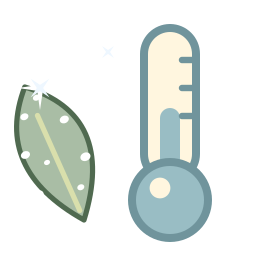
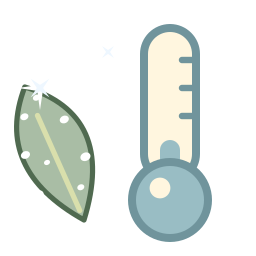
Make the frosty morning sparkle at full speed and load instantly
Checks of the frost found:

- The ice glints never appeared at 30-60 fps: setFrequency() every
  frame restarted the emitter's countdown. The frequency is now
  assigned, and the seasons smoke test counts glints at a fixed 60 fps
  (0 before, 22 a second now) instead of trusting slow headless frames.
- Painting the frost sheet blurred the canvas once per tile: World took
  2.3 s to start on a frosty day (10.5 s at 4x CPU). The tiles are now
  blurred once: 67 ms (0.27 s at 4x).
- After the frost melts, World no longer builds and paints it again on
  each return; the sheet's texture is freed as soon as the sun melts it,
  and its context-restore listener no longer keeps old effects alive.
- Thickets and old fences frost too; tree crowns and the vines on them
  lightly; the pod lightly so its lit doorway still glows.
- Glints sit on the ground, so the robot and animals hide them.
- Frost shadows only stand out once the frost around them melts, never
  fall where frost didn't form, appear for new plantings, and leave
  with a plant that is pulled. Off-screen frost isn't updated.
- The pictogram's thermometer now reads low, with a bolder frost rim.

Claude-Session: https://claude.ai/code/session_01PQ5V47biDoVLfsetz1Fi7u

Changed region(s): [[0.625, 0.4062, 0.7188, 0.5625]]

diff --git a/src/scenes/world/frostFx.ts b/src/scenes/world/frostFx.ts
@@ -24,6 +24,17 @@ const SHADE_ANGLE = 10;
 export function frostLeft(dayLeft: number): number {
   return Phaser.Math.Clamp((dayLeft - 0.7) / 0.25, 0, 1);
 }
+/**
+ * Frost left today, 1 at dawn to 0 once melted. Melted frost stays melted for the rest of the day, even
+ * if a battery upgrade adds energy or the robot pops home and back.
+ */
+export function frostToday(scene: Phaser.Scene, state: GameState, dayLeft: number): number {
+  if (state.weather.kind !== 'cold') return 0;
+  const melt = scene.registry.get('frostMelt') as { day: number; f: number } | undefined;
+  const f = Math.min(frostLeft(dayLeft), melt?.day === state.day ? melt.f : 1);
+  scene.registry.set('frostMelt', { day: state.day, f });
+  return f;
+}
 /** Frost in the sun goes first... */
 const sunFrost = (f: number) => Phaser.Math.Clamp((f - 0.35) / 0.65, 0, 1);
 /** ...and frost in the shade lasts to the end. */
@@ -49,8 +60,11 @@ export class FrostFx {
   private sun = 1;
   private shade = 1;
   private gone = false;
+  private sheetCanvas: HTMLCanvasElement | null = null;
+  private repaintSheet: (() => void) | null = null;
 
-  constructor(private scene: Phaser.Scene, private state: GameState) {
+  /** `frost` is frostToday(): only build one while some frost is left. */
+  constructor(private scene: Phaser.Scene, private state: GameState, frost: number) {
     for (let ty = 0; ty < MAP_H; ty++) for (let tx = 0; tx < MAP_W; tx++) this.cover[ty * MAP_W + tx] = ZONE_FROST[zoneAt(tx, ty)];
     // Under a crown the ground stays clear, with a fairly crisp edge.
     for (const e of state.entities) {
@@ -61,7 +75,8 @@ export class FrostFx {
         this.cover[ty * MAP_W + tx] *= Phaser.Math.Clamp((Math.hypot(dx, dy) - 1.1) / 0.8, 0.04, 1);
       }
     }
-    this.sheet = this.makeSheet(state.seed ^ Math.imul(state.day, 0x9e3779b1));
+    // The open-ground frost is only painted while the sun hasn't melted it yet.
+    if (sunFrost(frost) > 0) this.sheet = this.makeSheet(state.seed ^ Math.imul(state.day, 0x9e3779b1));
     makePatchTexture(scene);
 
     const zone = (pick: (p: Phaser.Types.Math.Vector2Like) => void) => ({
@@ -69,7 +84,8 @@ export class FrostFx {
       source: { getRandomPoint: (p: Phaser.Types.Math.Vector2Like) => (pick(p), p) },
     }) as unknown as Phaser.Types.GameObjects.Particles.EmitZoneData;
     const k = texScale(scene, 'frost');
-    // Ice crystals catching the low sun: they twinkle in place, they don't fall.
+    // Ice crystals catching the low sun: they twinkle in place on the ground, they don't fall. Ground
+    // depth lets plants, the robot and animals hide them.
     this.glints = scene.add.particles(0, 0, tex(scene, 'frost'), {
       emitZone: zone((p) => this.glintPoint(p)),
       lifespan: { min: 500, max: 1000 },
@@ -78,7 +94,7 @@ export class FrostFx {
       rotate: { min: -12, max: 12 },
       blendMode: Phaser.BlendModes.ADD,
       frequency: 45,
-    }).setDepth(150002);
+    }).setDepth(-3);
     // Thin wisps of steam lift off frosted plants and the pod roof as the sun reaches them.
     const ks = texScale(scene, 'smoke');
     this.steam = scene.add.particles(0, 0, tex(scene, 'smoke'), {
@@ -97,27 +113,32 @@ export class FrostFx {
   /** `dayLeft` is the battery fraction, the game's clock. `things` are the plants and stations in view. */
   update(dayLeft: number, things: Iterable<Frosted>): void {
     if (this.gone) return;
-    // Melted frost stays melted for the rest of the day, even if a battery upgrade adds energy or
-    // the robot pops home and back.
-    const melt = this.scene.registry.get('frostMelt') as { day: number; f: number } | undefined;
-    const f = Math.min(frostLeft(dayLeft), melt?.day === this.state.day ? melt.f : 1);
-    this.scene.registry.set('frostMelt', { day: this.state.day, f });
+    const f = frostToday(this.scene, this.state, dayLeft);
     this.sun = sunFrost(f);
     this.shade = shadeFrost(f);
-    this.sheet?.setAlpha(this.sun).setVisible(this.sun > 0);
     if (f <= 0) {
       this.melted();
       return;
     }
-    for (const thing of things) this.coat(thing);
+    this.sheet?.setAlpha(this.sun);
+    if (this.sun <= 0) this.dropSheet();
+    const v = this.scene.cameras.main.worldView;
+    const seen = new Set<Phaser.GameObjects.Image>();
+    for (const thing of things) {
+      seen.add(thing.sprite);
+      this.coat(thing, v);
+    }
+    // Plants pulled, cut or burned take their frost with them.
     for (const [sprite, coat] of this.coats) {
-      if (sprite.active) continue;
+      if (seen.has(sprite) && sprite.active) continue;
       coat.rime.destroy();
       coat.shade?.destroy();
       this.coats.delete(sprite);
     }
-    // Fewer crystals glint as the frost thins, and the last ones are warm dew drops.
-    this.glints.setFrequency(45 + (1 - f) * 260);
+    // Fewer crystals glint as the frost thins, and the last ones are warm dew drops. (Assigning the
+    // frequency keeps the emitter's countdown; setFrequency() would restart it every frame.)
+    const every = 45 + (1 - f) * 260;
+    if (Math.abs(this.glints.frequency - every) > 1) this.glints.frequency = every;
     this.glints.particleTint = f > 0.45 ? 0xffffff : 0xfff0cc;
     const steaming = this.sun > 0.1 && this.sun < 0.9;
     if (steaming !== this.steam.emitting) steaming ? this.steam.start() : this.steam.stop();
@@ -130,29 +151,49 @@ export class FrostFx {
   }
 
   /** Frost on a plant or the pod: a pale silvering, brightest along its top edge, plus its frost shadow. */
-  private coat({ sprite, weight }: Frosted): void {
+  private coat({ sprite, weight }: Frosted, view: Phaser.Geom.Rectangle): void {
     let coat = this.coats.get(sprite);
     if (!coat) {
-      const rime = this.scene.add.image(0, 0, sprite.texture.key, sprite.frame.name).setTintFill(0xeef5fb);
-      const w = sprite.displayWidth;
-      // Shade lies beside anything bigger than a seedling, on its west side (the sprite itself covers
-      // the ground behind it). Anchored at the plant, it shrinks back toward it.
-      const shade = w < 14 ? null : this.scene.add.image(0, 0, PATCH).setOrigin(1, 0.5).setAngle(SHADE_ANGLE).setDepth(-4.5);
-      shade?.setData('size', [w * 0.95, w * 0.4]);
-      coat = { rime, shade };
+      coat = { rime: this.scene.add.image(0, 0, sprite.texture.key, sprite.frame.name).setTintFill(0xeef5fb), shade: null };
       this.coats.set(sprite, coat);
     }
-    const { rime, shade } = coat;
+    const { rime } = coat;
+    // Only what's on screen (with room for its frost shadow) needs following.
+    const w = sprite.displayWidth, h = sprite.displayHeight;
+    const left = sprite.x - sprite.originX * w, top = sprite.y - sprite.originY * h;
+    const onScreen = left + w + 32 > view.x && left - w - 32 < view.right && top + h + 32 > view.y && top - 32 < view.bottom;
+    if (!onScreen) {
+      rime.setVisible(false);
+      coat.shade?.setVisible(false);
+      return;
+    }
     if (rime.texture.key !== sprite.texture.key || rime.frame.name !== sprite.frame.name) rime.setTexture(sprite.texture.key, sprite.frame.name);
     rime.setPosition(sprite.x, sprite.y - 1.2).setOrigin(sprite.originX, sprite.originY).setScale(sprite.scaleX, sprite.scaleY)
       .setAngle(sprite.angle).setFlip(sprite.flipX, sprite.flipY).setDepth(sprite.depth + 0.01)
       .setVisible(sprite.visible).setAlpha(0.42 * weight * sprite.alpha * Math.max(this.sun, this.shade * 0.35));
-    if (shade) {
-      // The shadow, and the frost in it, shrinks back toward the plant as the sun climbs.
-      const [w, h] = shade.getData('size') as number[];
-      shade.setPosition(sprite.x - w * 0.12, sprite.y - w * 0.12).setDisplaySize(w * (0.25 + 0.75 * this.shade), h * (0.5 + 0.5 * this.shade))
-        .setAlpha(0.8 * weight * this.shade).setVisible(this.shade > 0);
+    // Shade lies beside anything bigger than a seedling, on its west side (the sprite itself covers the
+    // ground behind it). It is measured once the plant has finished growing in.
+    if (!coat.shade && w >= 14 && !this.scene.tweens.isTweening(sprite)) {
+      coat.shade = this.scene.add.image(0, 0, PATCH).setOrigin(1, 0.5).setAngle(SHADE_ANGLE).setDepth(-4.5).setData('size', [w * 0.95, w * 0.4]);
     }
+    const shade = coat.shade;
+    if (!shade) return;
+    // The shadow, and the frost in it, shrinks back toward the plant as the sun climbs. It only stands out
+    // once the frost around it has melted, and never where frost didn't form (under a tree crown).
+    const [sw, sh] = shade.getData('size') as number[];
+    const dw = sw * (0.25 + 0.75 * this.shade), x = sprite.x - sw * 0.12, y = sprite.y - sw * 0.12;
+    const ground = Math.min(1, this.coverAt(x - dw / 2, y) / 0.2);
+    shade.setPosition(x, y).setDisplaySize(dw, sh * (0.5 + 0.5 * this.shade))
+      .setAlpha(0.8 * weight * this.shade * (1 - 0.75 * this.sun) * ground).setVisible(this.shade > 0 && sprite.visible);
+  }
+
+  /** The open-ground frost has melted: free its world-sized texture. */
+  private dropSheet(): void {
+    this.sheet?.destroy();
+    this.sheet = null;
+    this.sheetCanvas?.removeEventListener('contextrestored', this.repaintSheet!);
+    this.sheetCanvas = this.repaintSheet = null;
+    if (this.scene.textures.exists(SHEET)) this.scene.textures.remove(SHEET);
   }
 
   private melted(): void {
@@ -161,11 +202,9 @@ export class FrostFx {
       coat.shade?.destroy();
     }
     this.coats.clear();
-    this.sheet?.destroy();
-    this.sheet = null;
+    this.dropSheet();
     this.glints.stop();
     this.steam.stop();
-    if (this.scene.textures.exists(SHEET)) this.scene.textures.remove(SHEET);
     this.gone = true;
   }
 
@@ -191,7 +230,7 @@ export class FrostFx {
   /** A random point on a frosted thing in view, or in its frost shadow. */
   private nearThing(p: Phaser.Types.Math.Vector2Like, inShade: boolean): void {
     const v = this.scene.cameras.main.worldView;
-    const coats = [...this.coats].filter(([s]) => s.visible && v.contains(s.x, s.y));
+    const coats = [...this.coats].filter(([s, c]) => c.rime.visible && v.contains(s.x, s.y));
     const pick = coats[Math.floor(Math.random() * coats.length)];
     if (!pick) {
       p.x = v.x - 100;
@@ -227,25 +266,34 @@ export class FrostFx {
       texture.refresh();
     };
     paint();
-    // A GPU reset can blank the canvas (see make() in placeholders.ts).
-    texture.canvas.addEventListener('contextrestored', () => this.scene.textures.get(SHEET) === texture && paint());
-    return this.scene.add.image(0, 0, SHEET).setOrigin(0).setDepth(-5);
+    // A GPU reset can blank the canvas (see make() in placeholders.ts). Phaser reuses pooled canvases,
+    // so dropSheet() removes this listener again.
+    this.sheetCanvas = texture.canvas;
+    this.repaintSheet = () => this.scene.textures.get(SHEET) === texture && paint();
+    this.sheetCanvas.addEventListener('contextrestored', this.repaintSheet);
+    // Over the ground litter (-5), under the frost shadows.
+    return this.scene.add.image(0, 0, SHEET).setOrigin(0).setDepth(-4.9);
   }
 
   private paintSheet(c: CanvasRenderingContext2D, seed: number): void {
     const rng = mulberry32(seed);
     c.clearRect(0, 0, WORLD_W, WORLD_H);
-    // A thin, patchy ice-blue sheen: where frost settles, blurred at a quarter size and enlarged.
-    const small = document.createElement('canvas');
-    small.width = MAP_W * 8; small.height = MAP_H * 8;
+    // A thin, patchy ice-blue sheen: where frost settles, blurred at a quarter size and enlarged. The
+    // tiles are drawn first and blurred once; a filter on each fill would blur the canvas every time.
+    const tiles = document.createElement('canvas'), small = document.createElement('canvas');
+    tiles.width = small.width = MAP_W * 8;
+    tiles.height = small.height = MAP_H * 8;
+    const t = tiles.getContext('2d')!;
+    t.fillStyle = '#dde9f6';
+    for (let ty = 0; ty < MAP_H; ty++) for (let tx = 0; tx < MAP_W; tx++) {
+      t.globalAlpha = this.cover[ty * MAP_W + tx];
+      t.fillRect(tx * 8 - 2, ty * 8 - 2, 12, 12);
+    }
     const s = small.getContext('2d')!;
     s.filter = 'blur(5px)';
-    s.fillStyle = '#dde9f6';
-    for (let ty = 0; ty < MAP_H; ty++) for (let tx = 0; tx < MAP_W; tx++) {
-      s.globalAlpha = this.cover[ty * MAP_W + tx];
-      s.fillRect(tx * 8 - 2, ty * 8 - 2, 12, 12);
-    }
+    s.drawImage(tiles, 0, 0);
     s.filter = 'none';
+    tiles.width = tiles.height = 0;
     // It lies in lacy patches, between sand ripples and around grass clumps.
     s.globalCompositeOperation = 'destination-out';
     for (let i = 0; i < 2200; i++) {

diff --git a/src/scenes/WorldScene.ts b/src/scenes/WorldScene.ts
@@ -24,7 +24,7 @@ import { hasPerk } from '../systems/progress';
 import { mulberry32 } from '../systems/rng';
 import { FireFx } from './world/fireFx';
 import { WeatherFx } from './world/weatherFx';
-import { FrostFx, Frosted } from './world/frostFx';
+import { FrostFx, Frosted, frostToday } from './world/frostFx';
 import { frostThisWinter } from '../systems/weather';
 
 const S = 1 / ART_SCALE;
@@ -101,7 +101,8 @@ export class WorldScene extends PlayScene {
     this.fireFx = new FireFx(this, this.state);
     this.syncEntities(true);
     this.weatherFx = new WeatherFx(this, this.state.weather, seasonOf(this.state.day));
-    this.frostFx = this.state.weather.kind === 'cold' ? new FrostFx(this, this.state) : null;
+    const frost = frostToday(this, this.state, batteryFraction(this.state));
+    this.frostFx = frost > 0 ? new FrostFx(this, this.state, frost) : null;
     this.fireArrow = this.add.image(0, 0, tex(this, 'ui_fire')).setDisplaySize(16, 16).setDepth(250001).setVisible(false);
     // Storm days bring a few lightning strikes, spread through the time spent outdoors.
     if (this.state.weather.strikes > 0) this.nextStrike = this.time.now + 9000 + Math.random() * 12000;
@@ -545,14 +546,22 @@ export class WorldScene extends PlayScene {
     audio.fire(Phaser.Math.Clamp(1 - near.d / 700, 0, 0.4) * Math.min(1, this.fireFx.count / 6));
   }
 
-  /** What frost settles on: every plant (trees only lightly, on their crowns) and the stations. */
+  /**
+   * What frost settles on: every plant (tree crowns, and vines climbing them, only lightly), thickets,
+   * old fences, and the stations (the pod lightly, so its lit doorway still glows).
+   */
   private *frosted(): Iterable<Frosted> {
     for (const e of this.state.entities) {
-      if (e.kind !== 'nativePlant' && e.kind !== 'invasivePlant') continue;
       const sprite = this.views.get(e.id)?.sprite;
-      if (sprite) yield { sprite, weight: e.species === 'oak' || e.species === 'hickory' || e.species === 'pepper' ? 0.45 : 1 };
+      if (!sprite) continue;
+      if (e.kind === 'nativePlant' || e.kind === 'invasivePlant') {
+        const crown = e.species === 'oak' || e.species === 'hickory' || e.species === 'pepper' || sprite.texture.key.endsWith('vine_root');
+        yield { sprite, weight: crown ? 0.45 : 1 };
+      } else if (e.kind === 'hazard' && (e.species === 'thicket' || e.species === 'fence')) {
+        yield { sprite, weight: e.species === 'thicket' ? 0.85 : 0.6 };
+      }
     }
-    for (const sprite of this.stationSprites.values()) yield { sprite, weight: 0.9 };
+    for (const [st, sprite] of this.stationSprites) yield { sprite, weight: st.kind === 'pod' ? 0.6 : 0.9 };
   }
 
   update(_time: number, delta: number): void {

diff --git a/src/art/effects.ts b/src/art/effects.ts
@@ -441,7 +441,7 @@ function pict(key: string, c: Ctx) {
       c.quadraticCurveTo(18, -20, 0, 0);
       c.fillStyle = '#a9bda5';
       c.strokeStyle = '#ffffff';
-      c.lineWidth = 7;
+      c.lineWidth = 11;
       c.stroke();
       c.strokeStyle = '#506a50';
       c.lineWidth = 2;
@@ -450,7 +450,7 @@ function pict(key: string, c: Ctx) {
       for (const [x, y] of [[-7, -10], [-6, -21], [6, -14], [5, -25], [0, -31]]) circle(c, x, y, 1.3, '#ffffff');
       c.restore();
       roundRect(c, 36, 7, 13, 38, 6.5, '#fff6df', '#70949c');
-      roundRect(c, 40, 27, 5, 20, 2.5, '#99bdc4');
+      roundRect(c, 40, 35, 5, 12, 2.5, '#99bdc4');
       circle(c, 42.5, 50, 9.5, '#99bdc4');
       c.strokeStyle = '#70949c';
       c.lineWidth = 2;
